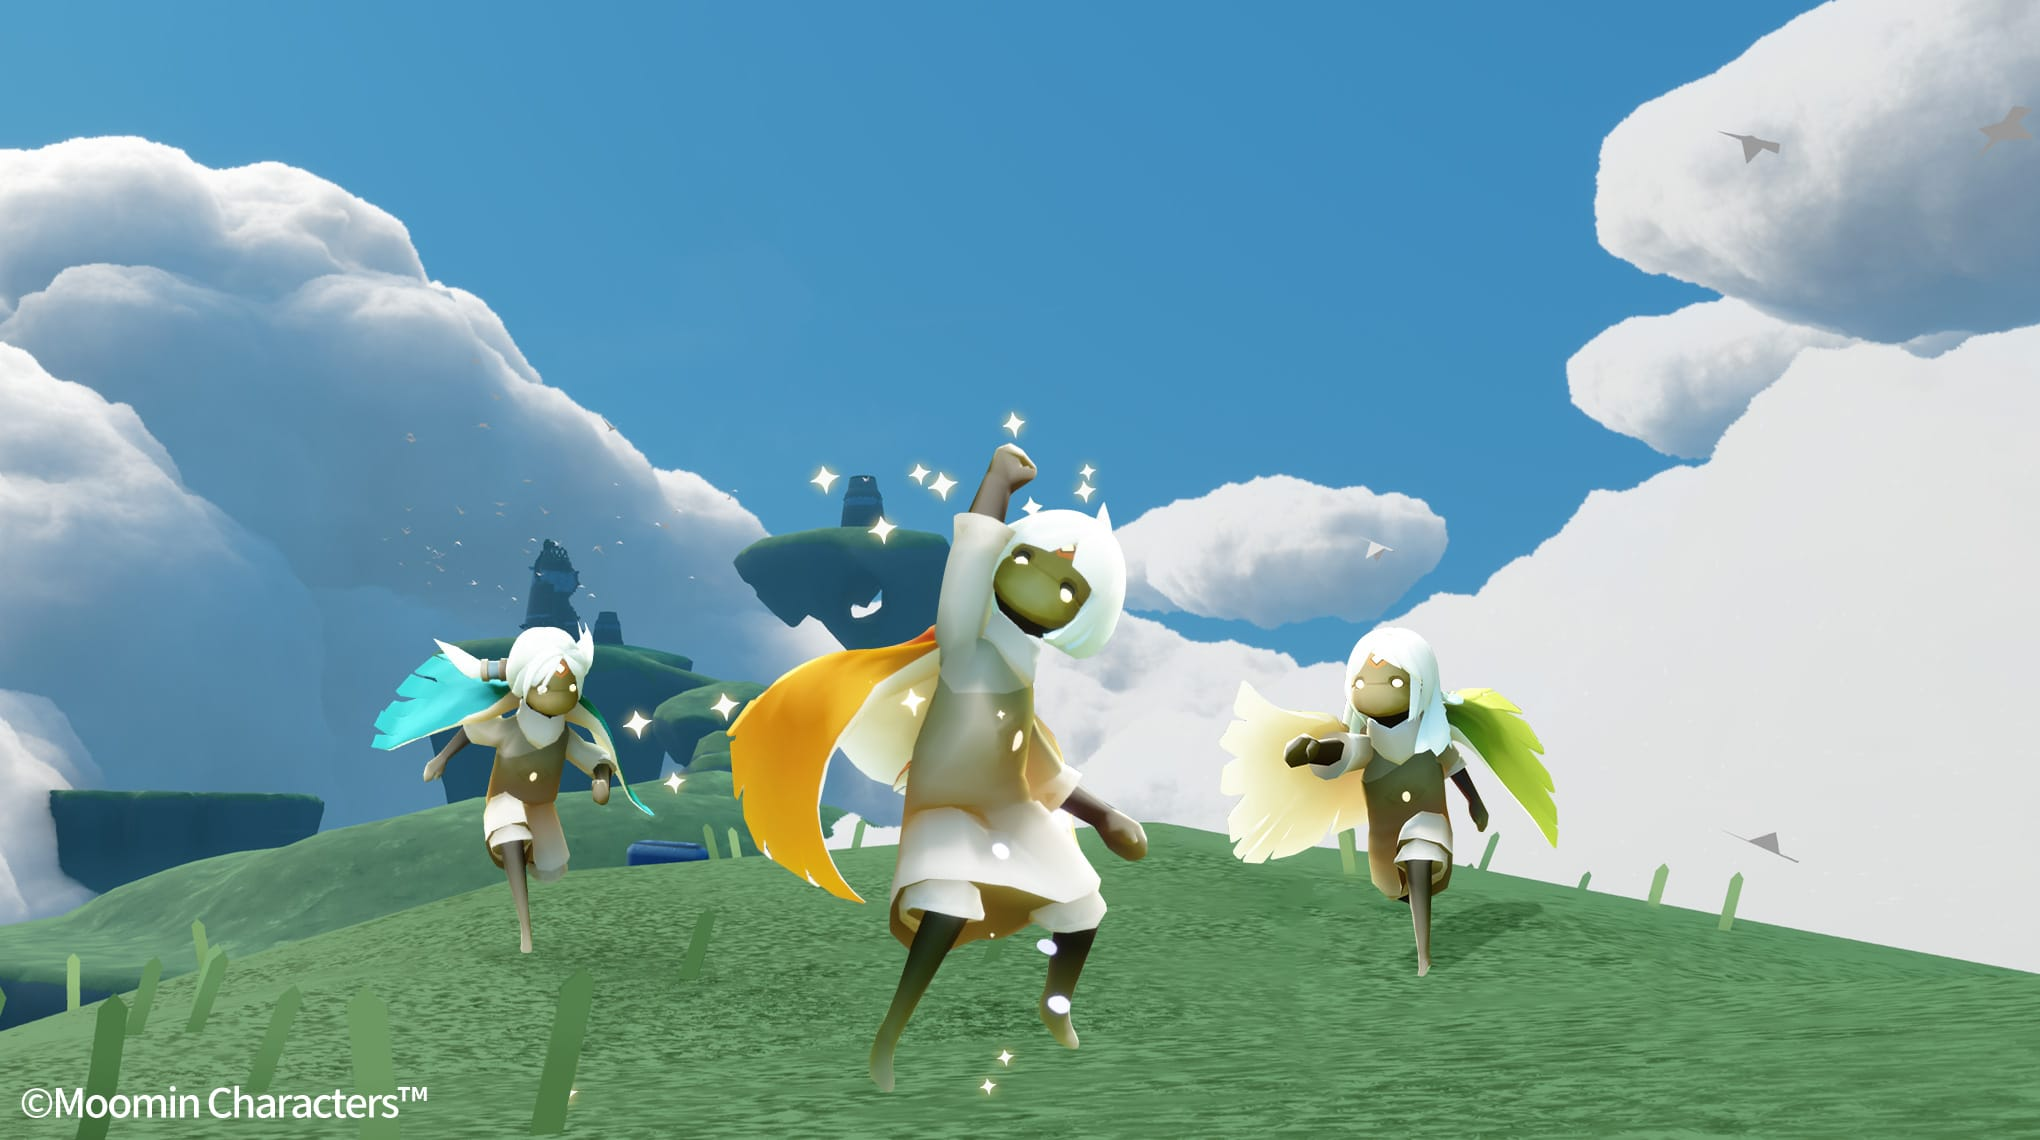
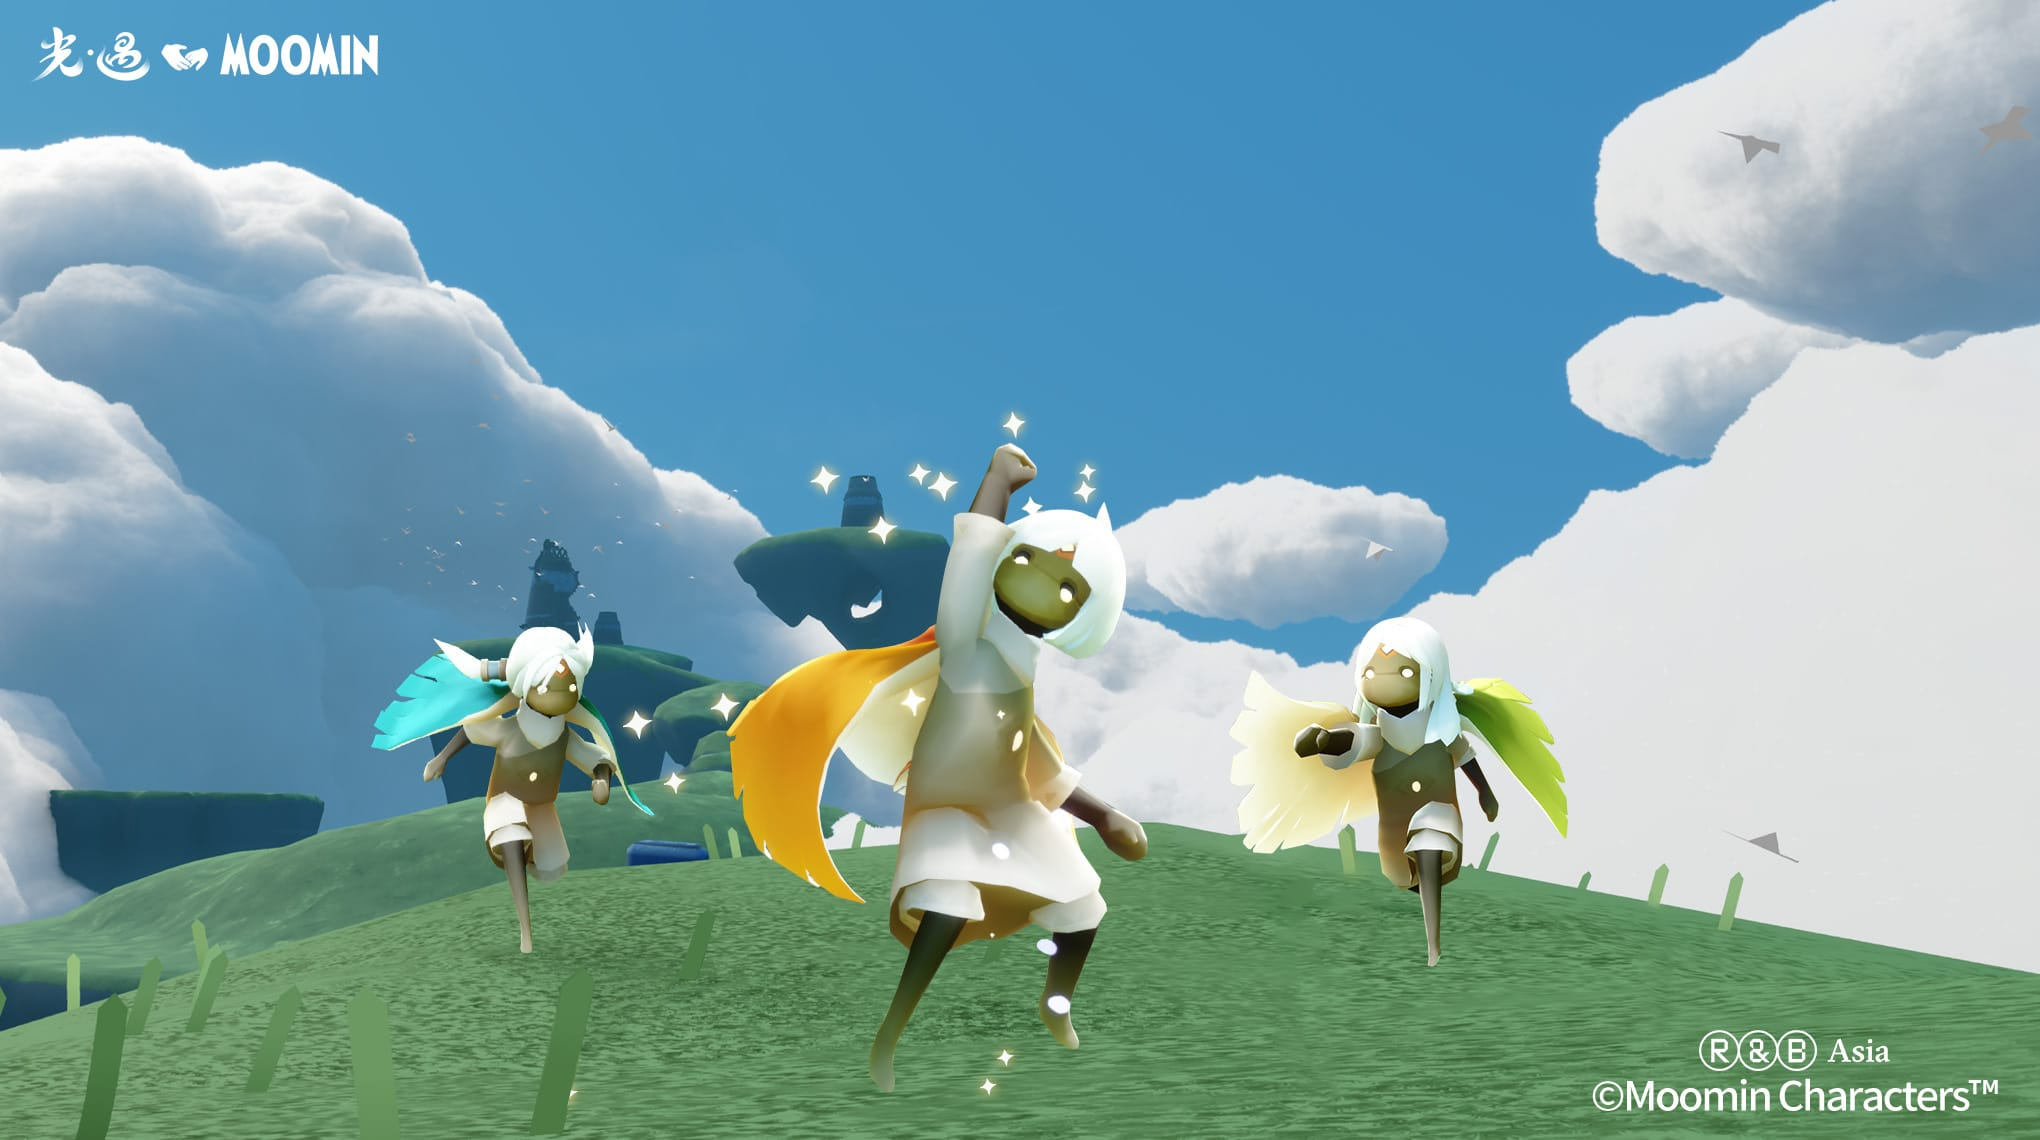
refs #60667 【线上】【活动中心】姆明季预约活动页面加上版权标识

diff --git a/src/views/Season24Reserve/Season24Reserve.vue b/src/views/Season24Reserve/Season24Reserve.vue
@@ -235,15 +235,13 @@ function handleHelp(): void {
 }
 .btn {
   position: absolute;
-  right: 187px;
-  bottom: 38px;
+  right: 381px;
+  bottom: 62px;
   width: 443px;
   height: 162px;
   background-image: url('@/assets/images/season24-reserve/btn.png');
 
   &-reserved {
-    right: 186px;
-    bottom: 37px;
     width: 445px;
     height: 164px;
     background-image: url('@/assets/images/season24-reserve/btn-reserved.png');
